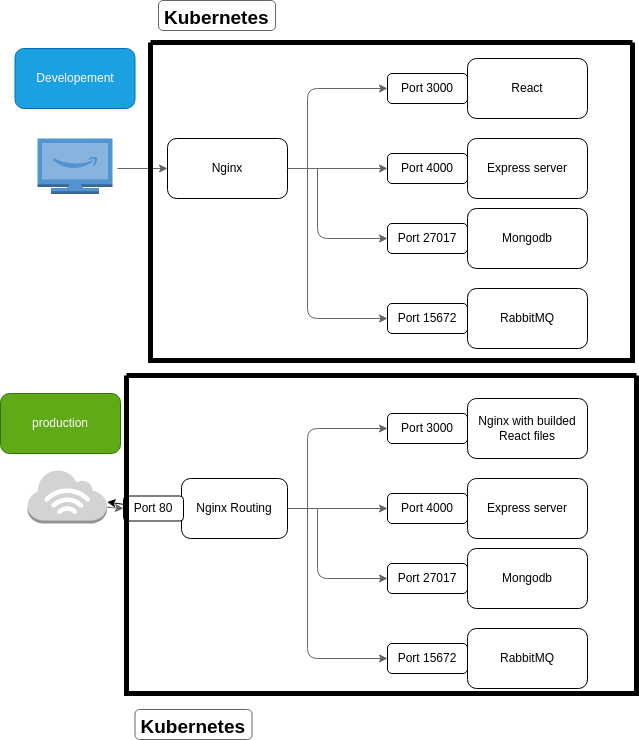
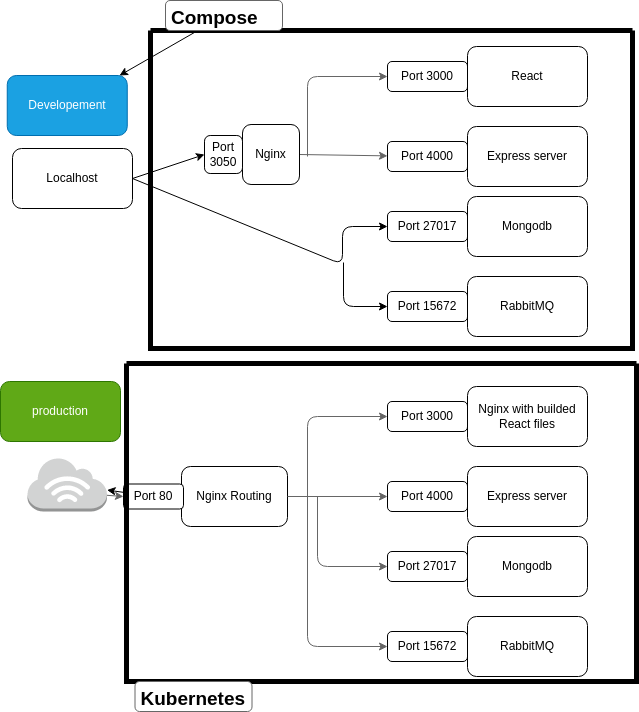
compose to run back and front

diff --git a/SocialMap-Frontend/src/pages/Profile/index.tsx b/SocialMap-Frontend/src/pages/Profile/index.tsx
@@ -83,7 +83,7 @@ const ProfilePage = () => {
     navigate(`/posts/${postId}`);
   }
 
-  function handleSearch(e: React.KeyboardEvent<HTMLInputElement>) {
+  function handleSearch(e: any) {
     var value = e.target.value
     if (value) {
       var profilesFilted = postsAll.filter(post => `${post.title} ${post.content}`.includes(value))

diff --git a/SocialMap-Frontend/src/pages/ProfileSelf/index.tsx b/SocialMap-Frontend/src/pages/ProfileSelf/index.tsx
@@ -84,7 +84,7 @@ const ProfileSelf = () => {
     navigate(`/posts/${postId}`);
   }
 
-  function handleSearch(e: React.KeyboardEvent<HTMLInputElement>) {
+  function handleSearch(e: any) {
     var value = e.target.value
     if (value) {
       var profilesFilted = postsAll.filter(post => `${post.title} ${post.content}`.includes(value))

diff --git a/SocialMap-Frontend/src/pages/Home/index.tsx b/SocialMap-Frontend/src/pages/Home/index.tsx
@@ -91,7 +91,7 @@ const Home = () => {
   }, [token])
 
 
-  function handleSearch(e: React.KeyboardEvent<HTMLInputElement>) {
+  function handleSearch(e: any) {
     var value = e.target.value
     if (value) {
       var profilesFilted = postsAll.filter(post => `${post.title} ${post.content}`.includes(value))

diff --git a/SocialMap-Frontend/src/pages/Profiles/index.tsx b/SocialMap-Frontend/src/pages/Profiles/index.tsx
@@ -98,7 +98,7 @@ const Profiles = () => {
   }
 
 
-  function handleSearch(e: React.KeyboardEvent<HTMLInputElement>) {
+  function handleSearch(e: any) {
     var value = e.target.value
     if (value) {
       var profilesFilted = profilesAll.filter(profile => profile.name.includes(value))

diff --git a/SocialMap-Frontend/src/constants.ts b/SocialMap-Frontend/src/constants.ts
@@ -1,5 +1,5 @@
 const CONSTANTS = {
-    API_HOST: 'http://192.168.100.6:4000/v1',
-    SOCKET_HOST: 'http://192.168.100.6:4000/v1'
+    API_HOST: 'http://localhost:4000/v1',
+    SOCKET_HOST: 'http://localhost:4000/v1'
 }
 export default CONSTANTS

diff --git a/README.md b/README.md
@@ -56,18 +56,29 @@ $ git clone https://github.com/bc-fullstack-01/EdnoAlmeida-ProjetoFinal.git
 $ cd EdnoAlmeida-ProjetoFinal
 ```
 
-## Iniciar o Backend
-
-```shell
-$ cd SocialMap-Backend
-```
-
 - No arquivo .env, mude o valor da variável HOTS para o host da sua rede
 
 ```js
 HOST=SUA_REDE
 ```
+## Iniciando o back e o front juntos
+<br>
 
+```shell
+$ docker-compose up
+```
+- Para popular o banco de dados para fins de teste faça um get na rota a baixo, simplesmente colando esse endereço no navegador. Com o backend rodando é claro.
+```sh
+http://localhost:4000/v1/dev/seed
+```
+## - Iniciando os projetos separadamente
+<br>
+
+## Iniciar o Backend
+
+```shell
+$ cd SocialMap-Backend
+```
 
 ### Inicie o container do Backend
 * OBS: Cuidado com os possíveis erros causados por nomes genéricos nos containers como 'mongodb'. Você pode precisar renomeá-los.
@@ -76,8 +87,6 @@ $ docker-compose build
 $ docker-compose up
 ```
 
-
-
 - No arquivo app.js pode ser necessário comentar a linha que invoca o middlware helmet.
 ```js
 // Middlewares
@@ -85,26 +94,12 @@ app.use(cors())
 //app.use(helmet());
 ```
 
-- Para popular o banco de dados para fins de teste faça um get na rota a baixo, simplesmente colando esse endereço no navegador. Com o backend rodando é claro.
-```sh
-http://localhost:4000/v1/dev/seed
-```
-
 ## Inicie o projeto Frontend
 ```shell
 $ cd SocialMap-Frontend
 $ npm install
 ```
-
-### Mudar o valor no arquivo constante.ts para o host da sua internet
-  * OBS: O projeto React usa a porta 3000 que é bem comum, caso haja algum programa rodando nessa porta você deve alterar uma das duas.
-  
-```js
-const CONSTANTS = {
-    API_HOST: 'http://SUA_REDE:4000/v1',
-    SOCKET_HOST: 'http://SUA_REDE:4000/v1'
-}
-```
+* OBS: O projeto React usa a porta 3000 que é bem comum, caso haja algum programa rodando nessa porta você deve alterar uma das duas.
 
 ```shell
 $ npm start
@@ -117,6 +112,7 @@ $ npm install
 ```
 
 ### Mudar o valor no arquivo constante.ts para o host da sua internet  
+### Optei por fazer isso para poder acessar o backend pelo celular usando a mesma rede
 ```js
 const CONSTANTS = {
     API_HOST: 'http://SUA_REDE:4000/v1',
